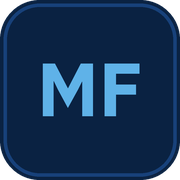
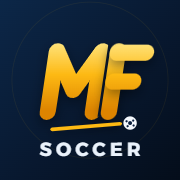
شعار التطبيق الجديد: MF SOCCER احترافي
أيقونة مخصّصة: حرفا MF ذهبيان معدنيان بميل حركي وأطراف مدوّرة انسيابية،
متداخلان بفاصل سالب، على خلفية كحلية متدرّجة مع تلميح دائرة الكرة،
وخط انسيابي ينتهي بكرة، وكلمة SOCCER تحتهما. صُمّم ليقرأ بوضوح من
512 إلى 48 بكسل.

استُبدلت icon-512 وicon-192 وapple-touch-icon. رُفعت نسخة خادم الخدمة
ليصل الشعار للأجهزة المثبِّتة القديمة.

diff --git a/sw.js b/sw.js
@@ -8,7 +8,7 @@
 
    عند كل نشر: ارفع رقم VER فتُبنى ذاكرة جديدة وتُحذف القديمة.
    ========================================================= */
-const VER   = 'mf-2026-09-07-1';
+const VER   = 'mf-2026-09-07-2';
 const SHELL = 'shell-' + VER;
 const RUN   = 'run-'   + VER;
 
